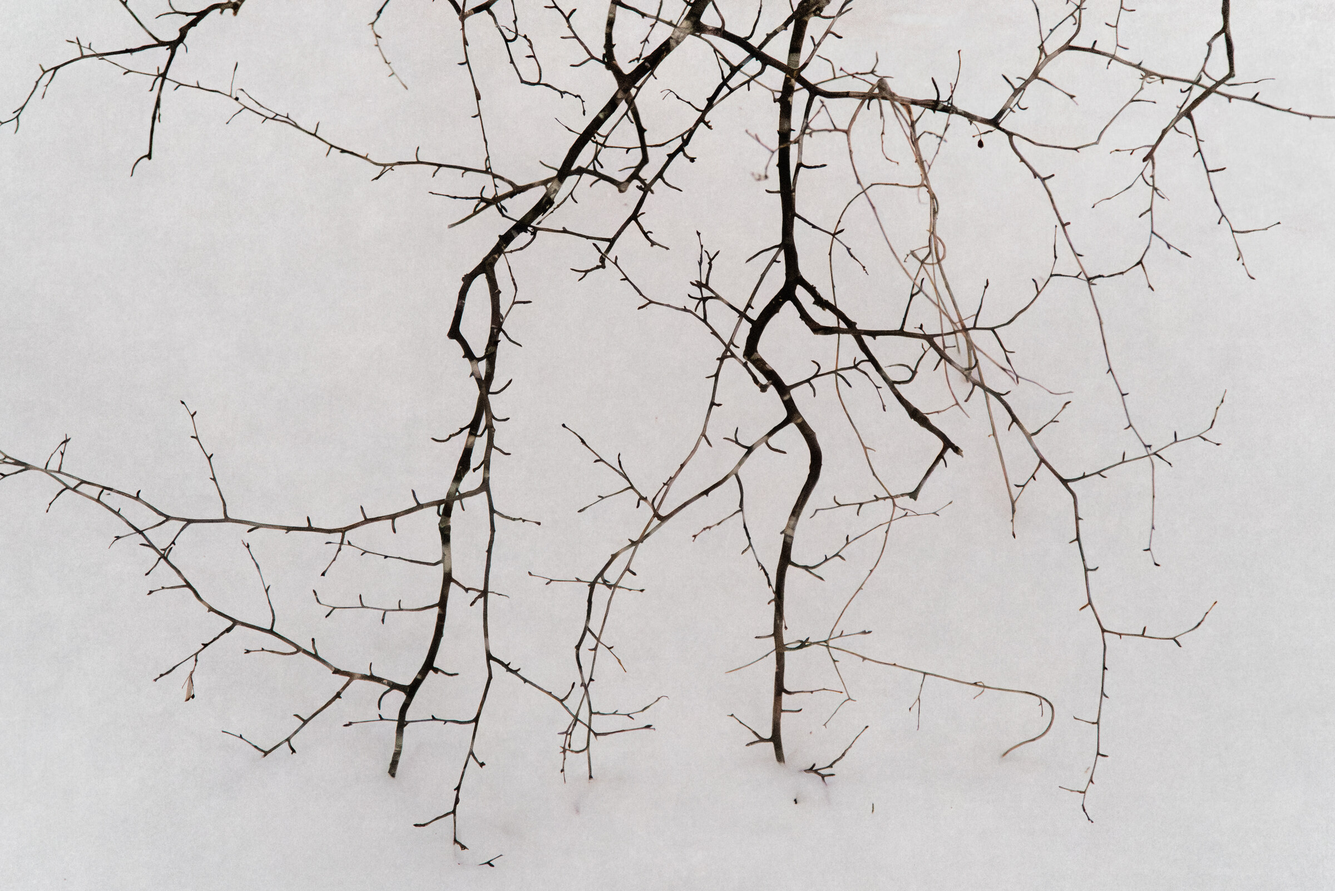
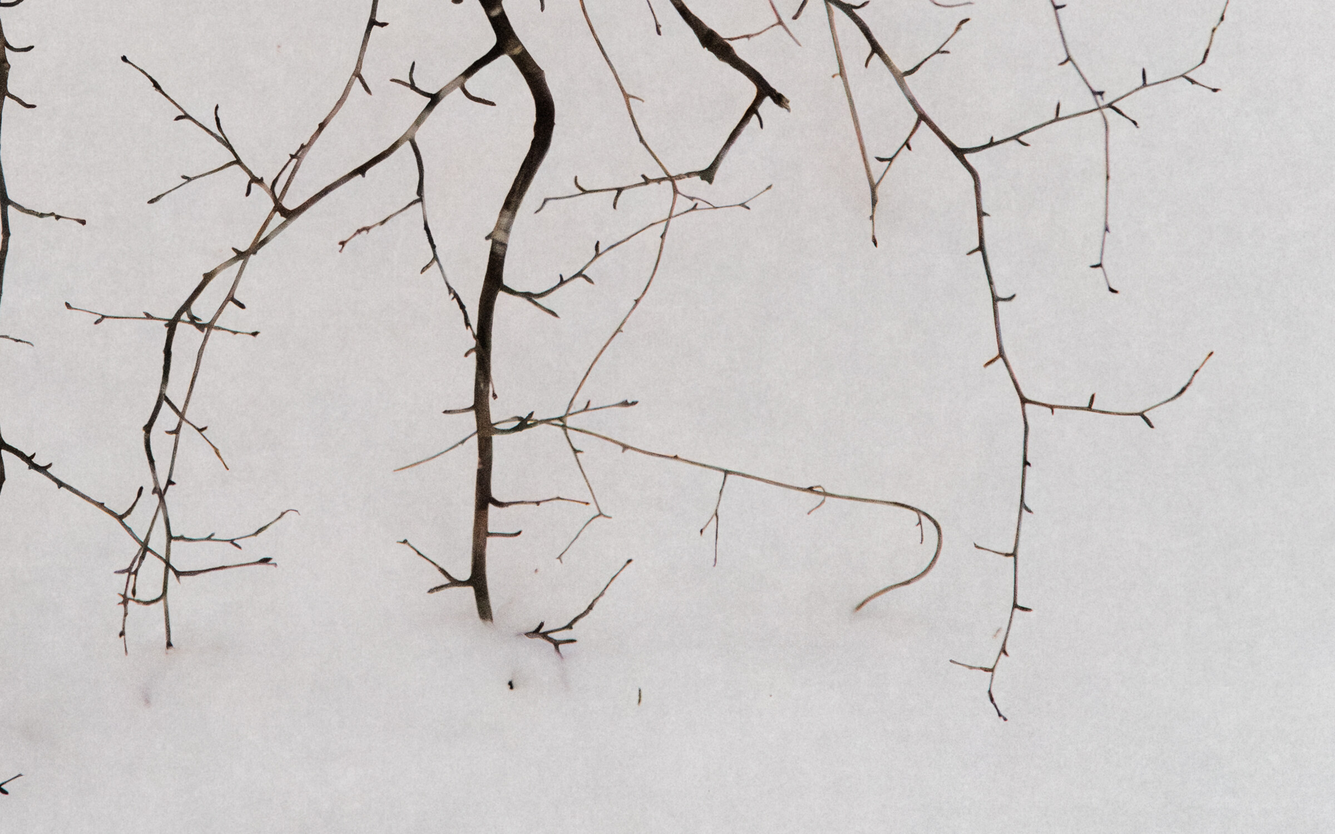
스테이징 최신화 2026-09-08

diff --git a/index.html b/index.html
@@ -88,12 +88,10 @@ a{color:inherit;text-decoration:none}
 
 /* p1 snow-single — 눈밭. 기본값 그대로. 묻힘 0.5% / 폰 0.4% */
 
-/* p2 cloud-a — 구름. 전면이 중간톤이라 겹침 합성은 55%가 뭉갠다. 빨강이라야 산다(4.5% / 폰 0%) */
 
-/* p3 snow-ridge — 오른쪽 절반이 검은 바위다.
-   ① 오른쪽 명단이 바위 위에 통째로 얹힌다 — 빨강 대비 2.8 은 13px 글자에 부족하다 → 명단만 겹침으로 되돌린다
-   ② 폰은 세로로 잘리며 바위가 글자 뒤로 들어온다 → 크롭을 왼쪽 눈밭으로 민다(묻힘 2.1% → 0.4%) */
-.p3 .over .index{mix-blend-mode:difference;color:#fff}
+/* p2 branches-fine — 가는 가지. 원본 L1040269 를 2333x1458+1425+1137 로 잘라 오른쪽 세로 띠를 비웠다.
+   자르기 전에는 가지가 명단을 통째로 지나 한 줄도 못 읽었다(겹침 반전으로도 안 됐다).
+   ⚠ 이 사진을 다시 자르면 명단 자리부터 확인한다. */
 
 /* 오른쪽 목록 = 취급 브랜드 '전체' 명단(알파벳순).
    왼쪽에 크게 띄운 브랜드도 이 명단에 그대로 들어간다 —
@@ -147,7 +145,9 @@ a{color:inherit;text-decoration:none}
 
 @media (max-width:900px){
   :root{--pad:18px}
-  .p3 .cover>img{object-position:0% 0%}
+  /* p2 가는 가지 — 폰은 세로로 잘리며 왼쪽 굵은 가지가 큰 활자를 정면으로 지난다.
+     크롭을 오른쪽으로 밀어 굵은 가지를 화면 오른쪽에 세운다(50%·68%·82% 를 실제로 렌더해 비교, 68% 채택) */
+  .p2 .cover>img{object-position:68% 0%}
   .mark{top:22px}
   .mark img{height:22px}
   .rule{top:56px;left:var(--pad)}
@@ -182,15 +182,14 @@ a{color:inherit;text-decoration:none}
      ?p=1 처럼 붙이면 그 사진으로 고정된다(검수·시연용).
      img 태그 바로 뒤에서 실행되므로 다른 사진이 먼저 보였다 바뀌는 일은 없다. */
   (function(){
-    var P=["snow-single"];   /* 2026-09-08 Neo 「텍스트가 더 잘 보이게」 — snow-single 한 장으로 좁혔다.
-                                후보 7장을 전부 렌더해 글자 자리의 배경 밝기를 실측한 결과(붉은 활자 #b3261e 대비):
-                                  snow-single  명단 최암 대비 4.30 · 큰활자 3.93   ← 유일하게 전 구간 안전
-                                  cloud-a      2.04 / 2.55       구름 중간톤이 13px 명단을 먹는다
-                                  snow-ridge   2.95 / 2.93       오른쪽 절반이 검은 바위
-                                  cloud-b      1.75 / 1.11       태양광에 큰 활자가 사라진다
-                                  snow-rocks · branches · branches-fine  최암 0 — 검은 가지·바위가 글자를 관통
-                                파일은 img/landing-2026-08-23/ 에 그대로 있다. 되살리려면 이 배열에 이름만 넣는다.
-                                ⚠ 다시 여러 장으로 갈 거면 사진마다 글자 자리를 새로 잡아야 한다 — 명단이 28줄이라 y212~816을 통째로 쓴다 */
+    var P=["snow-single","branches-fine"];   /* 2026-09-08 Neo 확정 — 이 두 장만 돌린다.
+       고른 근거: 후보 7장을 전부 렌더해 「글자가 실제로 덮는 픽셀」의 배경 밝기를 쟀다(붉은 활자 #b3261e 대비 3 미만 = 묻힘).
+         snow-single    묻힘 0.0%   — 손댈 것 없음
+         branches-fine  묻힘 5.3% → 사진을 다시 잘라 2.7%, 오른쪽 명단 자리는 0%
+         snow-rocks     아무리 잘라도 25%가 바위에 먹힌다 → 뺐다(겹침 반전으로만 살릴 수 있는데 그 장만 빨강을 잃는다)
+         cloud-a 2.04 · cloud-b 1.75 · branches 최암 0 — 전부 기각
+       파일은 img/landing-2026-08-23/ 에 다 남아 있다. 되살리려면 이 배열에 이름만 넣는다.
+       ⚠ 사진을 추가하면 글자가 덮는 자리가 밝은지 먼저 재고, 필요하면 사진을 그 자리에 맞춰 자른다. */
     var q=(location.search.match(/[?&]p=([0-9])/)||[])[1];
     var i=q?Math.min(Math.max(+q,1),P.length)-1:Math.floor(Math.random()*P.length);
     document.documentElement.classList.add("p"+(i+1));
